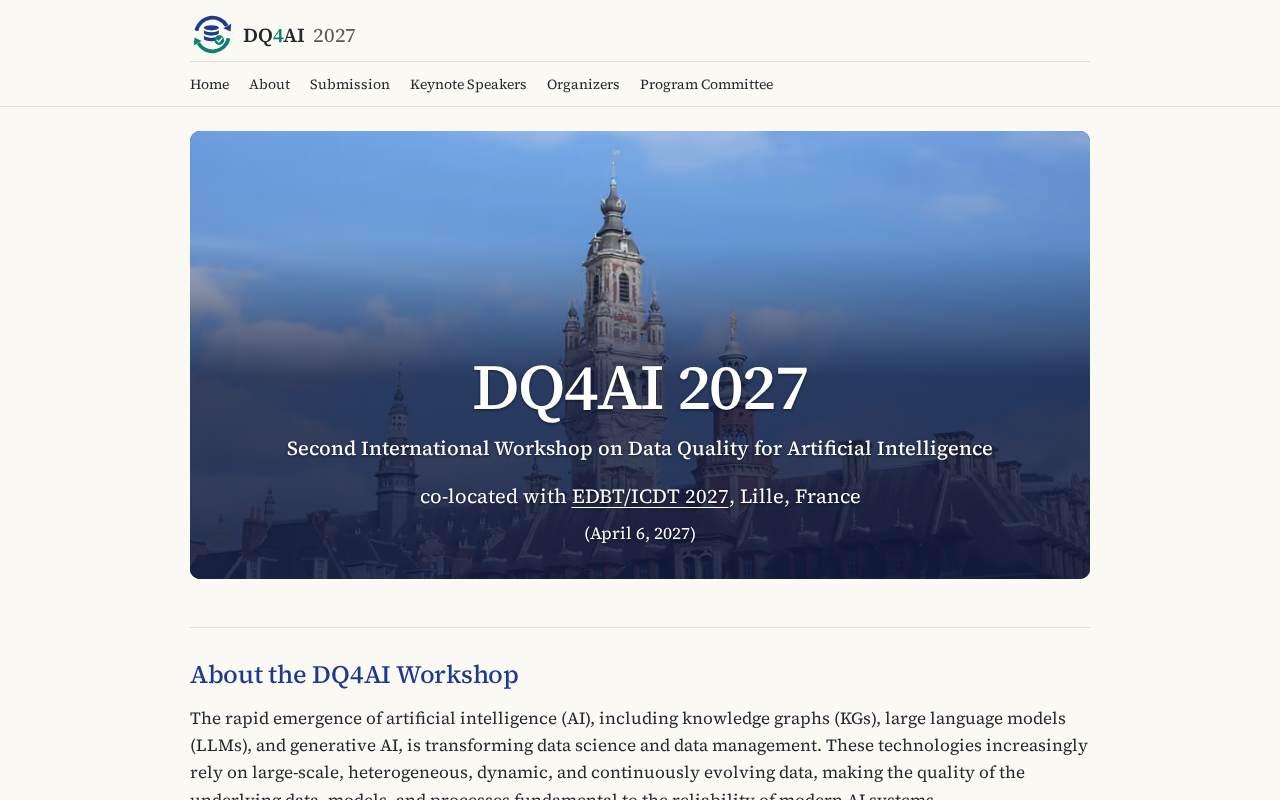
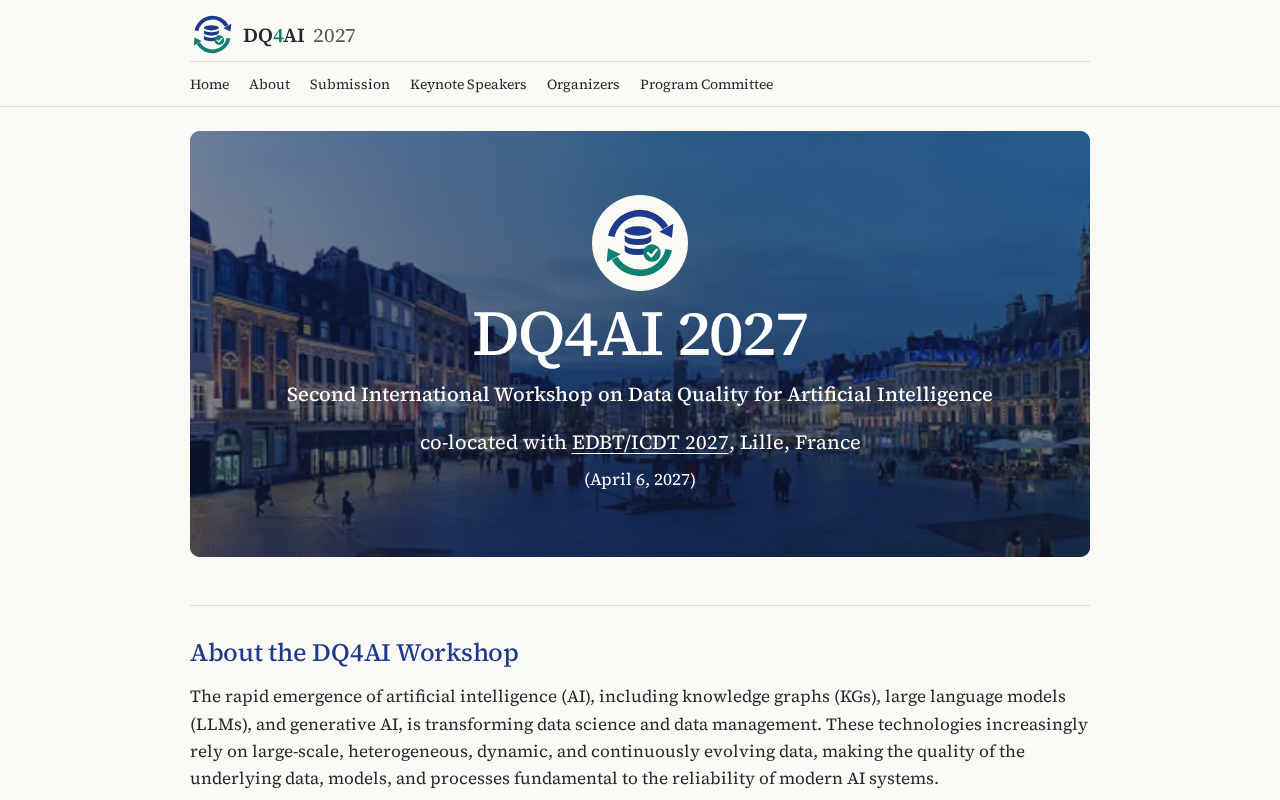
feat(pages): keep the dusk photo, with its credit shown on hover
The organizers prefer the Grand'Place at dusk after all. This undoes
the three earlier commits of this branch, so the banner is again the
one on main, and moves the photo's credit, which its CC BY-SA licence
requires, from under the banner to the foot of the photo: out of sight
until the banner is hovered or a credit link has keyboard focus. It
stays in the page for screen readers.

diff --git a/src/styles/components/content.css b/src/styles/components/content.css
@@ -50,10 +50,8 @@ main > section:not(.session) > h2 {
   padding-block: var(--space-4) var(--space-6);
 }
 
-/* The host city behind the title, as the organizers chose: the Vieille Bourse and the Chamber of
-   Commerce belfry on the Grand'Place, a public-domain photo that needs no credit. The photo shows
-   clear at the top; the words sit at the foot, where the navy veil is deep enough for white text
-   above 4.5:1 over any part of the photo. */
+/* The host city at dusk behind the title, as the organizers chose. A navy veil, deepest under
+   the words, keeps white text above 4.5:1 on every part of the photo. */
 .hero__banner {
   position: relative;
   isolation: isolate;
@@ -62,40 +60,19 @@ main > section:not(.session) > h2 {
   border-radius: var(--radius-large);
   background: var(--color-brand-a);
   color: #fff;
-  display: flex;
-  flex-direction: column;
-  justify-content: flex-end;
-  min-block-size: 26rem;
-  padding-block-start: 10rem;
   text-align: center;
-  text-shadow: 0 1px 3px rgb(0 0 0 / 0.55);
 }
 
 .hero__banner::after {
   position: absolute;
   z-index: -1;
   inset: 0;
-  background: linear-gradient(
-    to bottom,
-    rgb(15 25 60 / 0) 0%,
-    rgb(15 25 60 / 0.15) 12%,
-    rgb(15 25 60 / 0.8) 35%,
-    rgb(15 25 60 / 0.85) 100%
+  background: radial-gradient(
+    ellipse 70% 80% at 50% 50%,
+    rgb(15 25 60 / 0.68) 0%,
+    rgb(15 25 60 / 0.5) 100%
   );
   content: "";
-}
-
-/* Wider, the words take less height, so the photo stays clear further down. */
-@media (width >= 40rem) {
-  .hero__banner::after {
-    background: linear-gradient(
-      to bottom,
-      rgb(15 25 60 / 0) 0%,
-      rgb(15 25 60 / 0.15) 25%,
-      rgb(15 25 60 / 0.8) 55%,
-      rgb(15 25 60 / 0.85) 100%
-    );
-  }
 }
 
 .hero__photo {
@@ -105,7 +82,6 @@ main > section:not(.session) > h2 {
   inline-size: 100%;
   block-size: 100%;
   object-fit: cover;
-  object-position: center 12%;
 }
 
 .hero__banner a,
@@ -113,11 +89,55 @@ main > section:not(.session) > h2 {
   color: #fff;
 }
 
+/* The logo is navy and teal: on the photo it sits on a disc of paper. */
+.hero__banner .hero__mark {
+  padding: var(--space-2);
+  border-radius: 50%;
+  background: var(--color-surface);
+}
+
+/* The photo's credit, which its licence requires, stays out of sight until the photo is hovered
+   or a credit link has keyboard focus, as the organizers asked. It stays in the page for screen
+   readers and search engines. */
+.hero__credit {
+  position: absolute;
+  inset-inline: 0;
+  inset-block-end: 0;
+  max-inline-size: none;
+  margin: 0;
+  padding: var(--space-1) var(--space-3);
+  background: rgb(10 16 40 / 0.8);
+  font-family: var(--font-sans);
+  font-size: var(--text-sm);
+  text-align: end;
+  opacity: 0;
+  transform: translateY(100%);
+}
+
+.hero__banner:hover .hero__credit,
+.hero__credit:focus-within {
+  opacity: 1;
+  transform: none;
+}
+
+@media (prefers-reduced-motion: no-preference) {
+  .hero__credit {
+    transition:
+      opacity var(--dur-fast) var(--ease-out),
+      transform var(--dur-fast) var(--ease-out);
+  }
+}
+
 .hero__title {
   display: flex;
   flex-direction: column;
   gap: var(--space-2);
   align-items: center;
+}
+
+/* On a phone the header already shows the logo, and the banner stays short. */
+.hero__mark {
+  display: none;
 }
 
 .hero__where a {
@@ -137,11 +157,32 @@ main > section:not(.session) > h2 {
   text-wrap: balance;
 }
 
+/* The one moment nobody asked for: the two directions settle once around the checked data, which
+   stays still. From-only, so it cannot leave the logo hidden. */
+@media (prefers-reduced-motion: no-preference) {
+  .hero__mark .mark__loop {
+    transform-box: view-box;
+    transform-origin: center;
+    animation: settle var(--dur-slower) var(--ease-out);
+  }
+}
+
+@keyframes settle {
+  from {
+    opacity: 0;
+    transform: rotate(-60deg);
+  }
+}
+
 @media (width >= 40rem) {
   .hero__banner {
-    min-block-size: 28rem;
-    padding-inline: var(--space-5);
-    padding-block: 12rem var(--space-5);
+    padding: var(--space-7) var(--space-5);
+  }
+
+  .hero__mark {
+    display: block;
+    inline-size: 6rem;
+    block-size: 6rem;
   }
 }
 

diff --git a/tests/e2e/motion.spec.ts b/tests/e2e/motion.spec.ts
@@ -27,11 +27,13 @@ test.describe("tokens", () => {
 });
 
 test.describe("what moves", () => {
-  // The banner shows the city, not the logo, which the header already shows; neither moves.
-  test("the logo stays still", async ({ page }) => {
+  test("the home logo's loop settles once around the checked data", async ({ page }) => {
     await page.emulateMedia({ reducedMotion: "no-preference" });
     await page.goto("");
-    await expect(page.locator(".hero .mark")).toHaveCount(0);
+    const names = await page
+      .locator(".hero .mark__loop")
+      .evaluate((e) => getComputedStyle(e).animationName);
+    expect(names).toBe("settle");
     const header = await page
       .locator(".site-header .mark__loop")
       .evaluate((e) => getComputedStyle(e).animationName);
@@ -184,17 +186,46 @@ test.describe("every control shows its state", () => {
   });
 });
 
-// The organizers chose a photo of the host city for the banner, behind the title, and one that
-// needs no credit on the page.
+// The organizers chose a photo of the host city for the banner, behind the title.
 test.describe("the home banner", () => {
   test("its photo is decoration, and left off paper", async ({ page }) => {
     await page.goto("");
     const photo = page.locator(".hero__banner img.hero__photo");
     await expect(photo).toHaveCount(1);
     await expect(photo).toHaveAttribute("alt", "");
-    await expect(page.locator(".hero")).not.toContainText(/Photo:|CC BY/);
     await page.emulateMedia({ media: "print" });
     await expect(photo).toBeHidden();
+  });
+
+  test("its photo is credited, as its licence requires", async ({ page }) => {
+    await page.goto("");
+    const credit = page.locator(".hero__credit");
+    await expect(credit).toContainText("Photo: Velvet");
+    await expect(credit.getByRole("link", { name: "CC BY-SA 4.0" })).toHaveAttribute(
+      "href",
+      "https://creativecommons.org/licenses/by-sa/4.0/",
+    );
+  });
+
+  // As the organizers asked: out of sight until the photo is hovered, at its foot, and reachable
+  // from the keyboard.
+  test("its credit shows at the foot of the photo on hover or focus", async ({ page }) => {
+    await page.setViewportSize({ width: 1280, height: 800 });
+    await page.emulateMedia({ reducedMotion: "reduce" });
+    await page.goto("");
+    const banner = page.locator(".hero__banner");
+    const credit = banner.locator(".hero__credit");
+    await expect(credit).toHaveCSS("opacity", "0");
+    await banner.hover();
+    await expect(credit).toHaveCSS("opacity", "1");
+    const [outer, inner] = await Promise.all([banner.boundingBox(), credit.boundingBox()]);
+    expect(
+      Math.abs((outer?.y ?? 0) + (outer?.height ?? 0) - ((inner?.y ?? 0) + (inner?.height ?? 0))),
+    ).toBeLessThan(1);
+    await page.mouse.move(0, 0);
+    await expect(credit).toHaveCSS("opacity", "0");
+    await credit.getByRole("link").first().focus();
+    await expect(credit).toHaveCSS("opacity", "1");
   });
 
   test("its words stay readable over the art", async ({ page }) => {
@@ -203,16 +234,10 @@ test.describe("the home banner", () => {
       await page.emulateMedia({ colorScheme: scheme });
       await page.goto("");
       await expect(page.locator(".hero__banner h1")).toBeVisible();
-      // The photo shows clear above; the words sit below the middle, where the navy veil is
-      // deep enough for white text over any part of the photo.
       const veil = await page
         .locator(".hero__banner")
         .evaluate((e) => getComputedStyle(e, "::after").backgroundImage);
-      expect(veil, scheme).toContain("rgba(15, 25, 60, 0.8) 55%");
-      const banner = await page.locator(".hero__banner").boundingBox();
-      const title = await page.locator(".hero__banner h1").boundingBox();
-      if (!banner || !title) throw new Error("no banner");
-      expect(title.y - banner.y, scheme).toBeGreaterThanOrEqual(banner.height * 0.45);
+      expect(veil, scheme).toContain("radial-gradient");
     }
   });
 });

diff --git a/tests/e2e/brand.spec.ts b/tests/e2e/brand.spec.ts
@@ -49,12 +49,12 @@ test.describe("logo", () => {
     expect(await arc.evaluate((e) => getComputedStyle(e).stroke)).toBe("rgb(30, 58, 138)");
   });
 
-  // The banner shows the city; the logo opens the page in the header, as on every screen.
   test("the home page opens with the logo", async ({ page }) => {
     await page.setViewportSize({ width: 1440, height: 900 });
     await page.goto("");
-    await expect(page.locator(".site-header svg.mark")).toBeInViewport({ ratio: 1 });
-    await expect(page.locator(".hero svg.mark")).toHaveCount(0);
+    const mark = page.locator(".hero svg.mark");
+    await expect(mark).toBeInViewport({ ratio: 1 });
+    expect((await mark.boundingBox())?.width ?? 0).toBeGreaterThanOrEqual(96);
   });
 
   test("the favicon is the logo, in the logo's colors", () => {

diff --git a/src/styles/components/print.css b/src/styles/components/print.css
@@ -21,6 +21,7 @@
   .toolbar,
   .hero__actions,
   .hero__photo,
+  .hero__credit,
   .section-anchor,
   .more-link,
   .go-top,
@@ -63,6 +64,7 @@
     content: none;
   }
 
+  .hero__mark,
   .not-found__mark {
     inline-size: 32pt;
     block-size: 32pt;

diff --git a/docs/ARCHITECTURE.md b/docs/ARCHITECTURE.md
@@ -58,9 +58,10 @@ sections in order; `src/pages/index.astro` renders one component per section fro
 links to sections by anchor. Nothing is folded away. The old page addresses (`/dates/`, `/call-for-papers/` and so on) are
 kept as stubs, `src/pages/[moved].astro`, that send the browser to their section with a meta
 refresh, since they are already in announcements; they are `noindex` and left out of the sitemap.
-The banner is a public-domain photo of Lille's Vieille Bourse and Chamber of Commerce belfry, as the
-organizers chose one that needs no credit, under an even navy veil so the white title stays above
-7:1. It is the first
+The banner is a photo of Lille's Grand'Place at dusk, as the organizers chose, under a navy veil so
+the white title stays readable; its CC BY-SA licence requires the credit, which the
+organizers asked to keep out of sight: it shows at the foot of the photo on hover or keyboard focus,
+and stays in the page for screen readers. It is the first
 screen's largest paint, so it loads eagerly, and the page's Lighthouse budget is 100 with a largest
 paint under 2000 ms (under 1200 ms without the photo, on Lighthouse's simulated slow 4G). The page
 is a centred frame of `--page-width` (56.25rem, the previous edition's 900px), and text runs its
@@ -69,11 +70,12 @@ full width.
 **Motion.** Precise, calm, quick. Something moves only to explain, give feedback or direct attention,
 and every value comes from a token.
 
-| Moment             | Motion                           | Why                                    |
-| ------------------ | -------------------------------- | -------------------------------------- |
-| Phone menu opens   | Fade, 150 ms                     | Tells new links from displaced content |
-| Hover on a pointer | Color or border eases, 150 ms    | Feedback                               |
-| Press              | Color, and buttons scale to 0.97 | Feedback                               |
+| Moment             | Motion                           | Why                                      |
+| ------------------ | -------------------------------- | ---------------------------------------- |
+| Home logo, on load | The loop settles once, 480 ms    | The hero: the two directions around data |
+| Phone menu opens   | Fade, 150 ms                     | Tells new links from displaced content   |
+| Hover on a pointer | Color or border eases, 150 ms    | Feedback                                 |
+| Press              | Color, and buttons scale to 0.97 | Feedback                                 |
 
 These stay still on purpose: a change of system theme, so every color changes at once; section
 jumps, because smooth scrolling took over a second on long pages and ran on page load; the time-zone

diff --git a/CHANGELOG.md b/CHANGELOG.md
@@ -2,9 +2,13 @@
 
 ## Unreleased
 
+The banner photo's credit, which its CC BY-SA licence requires, no longer sits under the banner: it
+shows at the foot of the photo when the banner is hovered or a credit link has keyboard focus, as
+the organizers asked, and stays in the page for screen readers.
+
 The organizers' fifth round. The page is a centred frame of 900px, as on QuaLLM-KG 2026, rather
-than running edge to edge. The banner is a public-domain photo of Lille's Vieille Bourse and the
-Chamber of Commerce belfry, under an even navy veil, so it needs no credit; its Lighthouse budget allows a largest paint of 2000 ms instead of 1200 ms
+than running edge to edge. The banner is a photo of Lille's Grand'Place at dusk, credited as its
+licence requires; its Lighthouse budget allows a largest paint of 2000 ms instead of 1200 ms
 for the photo. The Program section and its menu link are left out until there is a program; its old
 addresses lead to About meanwhile. A keynote whose talk is not yet known reads "To be announced"
 once, not for each of its title, abstract and biography. Jesualdo Tomás Fernández Breis (Universidad

diff --git a/README.md b/README.md
@@ -8,7 +8,7 @@ with EDBT/ICDT 2027 in Lille, France.
 
 **Live site:** <https://dq4ai.github.io/dq4ai-2027/>
 
-![Home page of the DQ4AI 2027 website: a banner photo of Lille's Vieille Bourse and belfry behind "DQ4AI 2027", the full title and the date, then About](docs/screenshot.png)
+![Home page of the DQ4AI 2027 website: a banner photo of Lille's Grand'Place at dusk behind "DQ4AI 2027", the full title and the date, then About](docs/screenshot.png)
 
 ## The site
 
